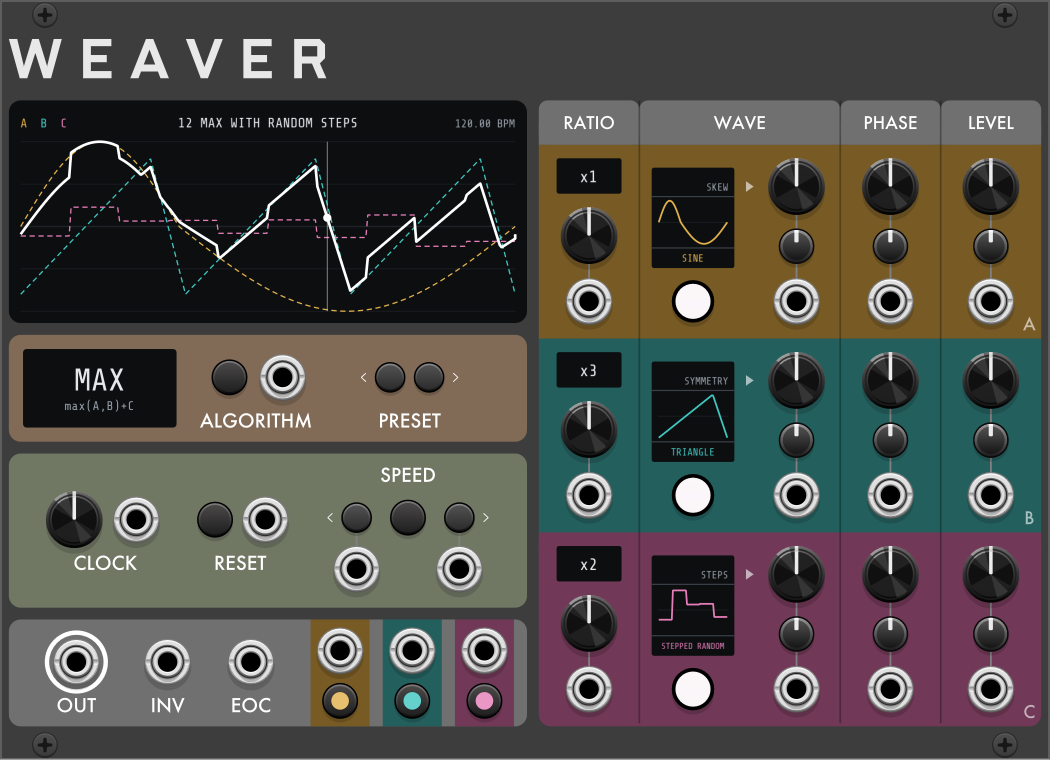
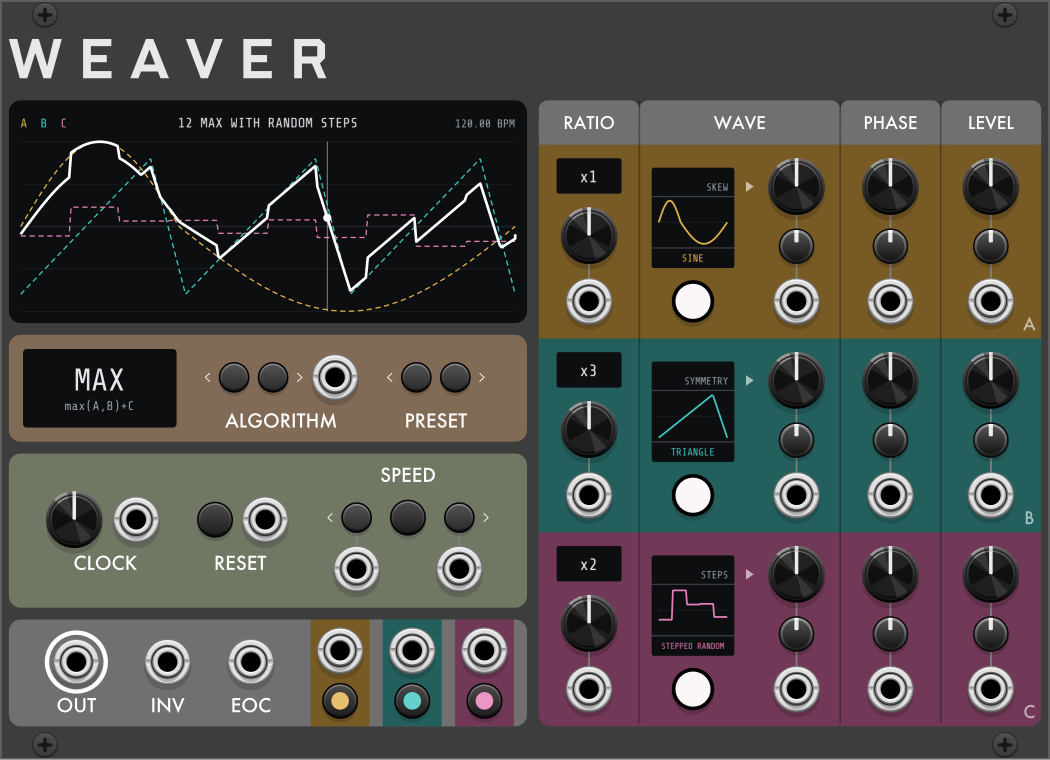
Skylark: SHAPE buttons replace the knob; Weaver: ALGORITHM previous/next buttons

Changed region(s): [[0.1829, 0.4539, 0.4571, 0.575], [0.3657, 0.5447, 0.4571, 0.575]]

diff --git a/src/Weaver.cpp b/src/Weaver.cpp
@@ -166,7 +166,8 @@ struct Weaver : Module {
 		C_PARAM_CV_PARAM,
 		C_PHASE_CV_PARAM,
 		C_LEVEL_CV_PARAM,
-		ALGORITHM_PARAM,
+		// Next algorithm (the old single ALGORITHM button's slot)
+		ALGORITHM_NEXT_PARAM,
 		// The old ENVELOPE knob: no control, its slot kept so old patches load
 		UNUSED_ENVELOPE_PARAM,
 		PRESET_PREV_PARAM,
@@ -179,6 +180,7 @@ struct Weaver : Module {
 		SPEED_DOWN_PARAM,
 		SPEED_UP_PARAM,
 		SPEED_RESET_PARAM,
+		ALGORITHM_PREV_PARAM,
 		PARAMS_LEN
 	};
 	enum InputId {
@@ -256,7 +258,7 @@ struct Weaver : Module {
 	shapes::CombineEngine engine;
 	shapes::Slew slew[4];  // OUT, then A, B, C
 	shapes::Trigger eoc;
-	dsp::BooleanTrigger waveTriggers[3], algorithmTrigger, speedDownTrigger, speedUpTrigger, speedResetTrigger;
+	dsp::BooleanTrigger waveTriggers[3], algorithmPrevTrigger, algorithmNextTrigger, speedDownTrigger, speedUpTrigger, speedResetTrigger;
 	dsp::SchmittTrigger speedDownCv, speedUpCv;
 #ifdef METAMODULE
 	// MetaModule has no widget events, so the PRESET buttons are read here
@@ -545,7 +547,9 @@ struct Weaver : Module {
 			if (waveTriggers[i].process(params[param(i, A_WAVE_PARAM)].getValue() > 0.5f))
 				selectWave(i, (waves[i] + 1) % shapes::kNumWaves);
 #endif
-		if (algorithmTrigger.process(params[ALGORITHM_PARAM].getValue() > 0.5f))
+		if (algorithmPrevTrigger.process(params[ALGORITHM_PREV_PARAM].getValue() > 0.5f))
+			algorithm = (algorithm + shapes::kNumAlgorithms - 1) % shapes::kNumAlgorithms;
+		if (algorithmNextTrigger.process(params[ALGORITHM_NEXT_PARAM].getValue() > 0.5f))
 			algorithm = (algorithm + 1) % shapes::kNumAlgorithms;
 		// SPEED's jacks do what their buttons do
 		bool down = speedDownTrigger.process(params[SPEED_DOWN_PARAM].getValue() > 0.5f);
@@ -770,7 +774,8 @@ Weaver::Weaver() {
 		configOutput(A_OUTPUT + i, "Operator " + op);
 		configLight(A_WAVE_LIGHT + 3 * i, op + " wave");
 	}
-	configButton<AlgorithmQuantity>(ALGORITHM_PARAM, "Algorithm");
+	configButton<AlgorithmQuantity>(ALGORITHM_PREV_PARAM, "Previous algorithm");
+	configButton<AlgorithmQuantity>(ALGORITHM_NEXT_PARAM, "Next algorithm");
 	configParam(UNUSED_ENVELOPE_PARAM, 0.f, 1.f, 0.f, "Unused")->randomizeEnabled = false;
 	configButton(PRESET_PREV_PARAM, "Previous preset");
 	configButton(PRESET_NEXT_PARAM, "Next preset");
@@ -1080,8 +1085,9 @@ struct PresetButton : TL1105 {
 	}
 };
 
-// Clicking WAVE or ALGORITHM steps to the next choice; right-clicking lists
-// them all below the usual parameter menu.
+// Clicking WAVE steps to the next wave, and ALGORITHM's buttons to the
+// previous or next algorithm; right-clicking lists them all below the usual
+// parameter menu.
 template <typename TBase>
 struct ChoiceMenuButton : TBase {
 	virtual void appendChoices(Menu* menu, Weaver* module) = 0;
@@ -1112,7 +1118,7 @@ struct WaveButton : ChoiceMenuButton<VCVLightBezel<RedGreenBlueLight>> {
 	}
 };
 
-struct AlgorithmButton : ChoiceMenuButton<VCVButton> {
+struct AlgorithmButton : ChoiceMenuButton<TL1105> {
 	void appendChoices(Menu* menu, Weaver* module) override {
 		menu->addChild(createMenuLabel("Algorithm"));
 		for (int a = 0; a < shapes::kNumAlgorithms; a++) {
@@ -1217,17 +1223,18 @@ struct WeaverWidget : ModuleWidget {
 		addInput(createInputCentered<PJ301MPort>(mm2px(Vec(167.79, 116.69)), module, Weaver::C_LEVEL_INPUT));
 
 		// Algorithm and presets
-		addParam(createParamCentered<AlgorithmButton>(mm2px(Vec(38.86, 63.9)), module, Weaver::ALGORITHM_PARAM));
-		addInput(createInputCentered<PJ301MPort>(mm2px(Vec(47.86, 63.9)), module, Weaver::ALGORITHM_INPUT));
+		addParam(createParamCentered<AlgorithmButton>(mm2px(Vec(39.64, 63.9)), module, Weaver::ALGORITHM_PREV_PARAM));
+		addParam(createParamCentered<AlgorithmButton>(mm2px(Vec(46.24, 63.9)), module, Weaver::ALGORITHM_NEXT_PARAM));
+		addInput(createInputCentered<PJ301MPort>(mm2px(Vec(56.74, 63.9)), module, Weaver::ALGORITHM_INPUT));
 #ifdef METAMODULE
 		// Plain buttons: process() steps the presets, as PresetButton never gets events here
-		addParam(createParamCentered<TL1105>(mm2px(Vec(72.66, 63.9)), module, Weaver::PRESET_NEXT_PARAM));
-		addParam(createParamCentered<TL1105>(mm2px(Vec(66.06, 63.9)), module, Weaver::PRESET_PREV_PARAM));
+		addParam(createParamCentered<TL1105>(mm2px(Vec(77.1, 63.9)), module, Weaver::PRESET_NEXT_PARAM));
+		addParam(createParamCentered<TL1105>(mm2px(Vec(70.5, 63.9)), module, Weaver::PRESET_PREV_PARAM));
 #else
-		PresetButton* next = createParamCentered<PresetButton>(mm2px(Vec(72.66, 63.9)), module, Weaver::PRESET_NEXT_PARAM);
+		PresetButton* next = createParamCentered<PresetButton>(mm2px(Vec(77.1, 63.9)), module, Weaver::PRESET_NEXT_PARAM);
 		next->delta = 1;
 		addParam(next);
-		PresetButton* prev = createParamCentered<PresetButton>(mm2px(Vec(66.06, 63.9)), module, Weaver::PRESET_PREV_PARAM);
+		PresetButton* prev = createParamCentered<PresetButton>(mm2px(Vec(70.5, 63.9)), module, Weaver::PRESET_PREV_PARAM);
 		prev->delta = -1;
 		addParam(prev);
 #endif
@@ -1238,7 +1245,7 @@ struct WeaverWidget : ModuleWidget {
 		addParam(createParamCentered<VCVButton>(mm2px(Vec(36.415, 88.0)), module, Weaver::RESET_PARAM));
 		addInput(createInputCentered<PJ301MPort>(mm2px(Vec(44.915, 88.0)), module, Weaver::RESET_INPUT));
 
-		// SPEED: plain buttons, read in process() like ALGORITHM, down and up over their trigger jacks
+		// SPEED: plain buttons, read in process() like ALGORITHM's, down and up over their trigger jacks
 		addParam(createParamCentered<TL1105>(mm2px(Vec(60.385, 87.65)), module, Weaver::SPEED_DOWN_PARAM));
 		addParam(createParamCentered<VCVButton>(mm2px(Vec(69.085, 87.65)), module, Weaver::SPEED_RESET_PARAM));
 		addParam(createParamCentered<TL1105>(mm2px(Vec(77.785, 87.65)), module, Weaver::SPEED_UP_PARAM));

diff --git a/src/Skylark.cpp b/src/Skylark.cpp
@@ -76,6 +76,12 @@ struct Skylark : Module {
 		SPEED_RESET_PARAM,
 		PARAMS_LEN
 	};
+	// The shape buttons' tooltips name the shape
+	struct ShapeQuantity : ParamQuantity {
+		std::string getDisplayValueString() override {
+			return module ? shapes::recipeName((int) std::round(module->params[SHAPE_PARAM].getValue())) : "";
+		}
+	};
 	enum InputId {
 		VARIATION_INPUT,
 		SHAPE_INPUT,
@@ -165,9 +171,11 @@ struct Skylark : Module {
 		std::vector<std::string> names;
 		for (int i = 0; i < shapes::kNumRecipes; i++)
 			names.push_back(shapes::recipeName(i));
+		// No control: the buttons step it. Saved in the module's data too, as
+		// the MetaModule doesn't save a param without a control.
 		configSwitch(SHAPE_PARAM, 0.f, shapes::kNumRecipes - 1, 0.f, "Shape", names);
-		configButton(SHAPE_PREV_PARAM, "Previous shape");
-		configButton(SHAPE_NEXT_PARAM, "Next shape");
+		configButton<ShapeQuantity>(SHAPE_PREV_PARAM, "Previous shape");
+		configButton<ShapeQuantity>(SHAPE_NEXT_PARAM, "Next shape");
 		configParam(TIMING_PARAM, -1.f, 1.f, 0.f, "Timing");
 		configParam(LIFT_PARAM, -1.f, 1.f, 0.f, "Lift");
 		configParam(SYMMETRY_PARAM, 0.f, 1.f, 0.f, "Symmetry", "%", 0.f, 100.f);
@@ -365,6 +373,7 @@ struct Skylark : Module {
 		json_object_set_new(rootJ, "cvPerCycle", json_boolean(cvPerCycle));
 		json_object_set_new(rootJ, "shapeAtCycleEnd", json_boolean(shapeAtCycleEnd));
 		json_object_set_new(rootJ, "speed", json_integer(speed.targetOctaves()));
+		json_object_set_new(rootJ, "shape", json_integer((int) std::round(params[SHAPE_PARAM].getValue())));
 		return rootJ;
 	}
 
@@ -379,6 +388,10 @@ struct Skylark : Module {
 		shapeAtCycleEnd = j && json_is_true(j);
 		j = json_object_get(rootJ, "speed");
 		speed.jumpTo(j && json_is_integer(j) ? (int) json_integer_value(j) : 0);
+		// Missing (a patch from when SHAPE was a knob): the saved param stands
+		j = json_object_get(rootJ, "shape");
+		if (j && json_is_integer(j) && json_integer_value(j) >= 0 && json_integer_value(j) < shapes::kNumRecipes)
+			params[SHAPE_PARAM].setValue((float) json_integer_value(j));
 	}
 };
 
@@ -520,12 +533,11 @@ struct SkylarkWidget : ModuleWidget {
 		addChild(display);
 
 		addParam(createParamCentered<RoundBlackKnob>(mm2px(Vec(103.71, 32.791)), module, Skylark::VARIATION_PARAM));
-		addParam(createParamCentered<RoundBlackSnapKnob>(mm2px(Vec(88.56, 32.791)), module, Skylark::SHAPE_PARAM));
 		addInput(createInputCentered<PJ301MPort>(mm2px(Vec(103.71, 44.753)), module, Skylark::VARIATION_INPUT));
 		addInput(createInputCentered<PJ301MPort>(mm2px(Vec(88.56, 44.753)), module, Skylark::SHAPE_INPUT));
 		addParam(createParamCentered<Trimpot>(mm2px(Vec(103.71, 53.844)), module, Skylark::VARIATION_CV_PARAM));
-		addParam(createParamCentered<TL1105>(mm2px(Vec(85.26, 53.844)), module, Skylark::SHAPE_PREV_PARAM));
-		addParam(createParamCentered<TL1105>(mm2px(Vec(91.86, 53.844)), module, Skylark::SHAPE_NEXT_PARAM));
+		addParam(createParamCentered<TL1105>(mm2px(Vec(85.26, 32.791)), module, Skylark::SHAPE_PREV_PARAM));
+		addParam(createParamCentered<TL1105>(mm2px(Vec(91.86, 32.791)), module, Skylark::SHAPE_NEXT_PARAM));
 
 		addParam(createParamCentered<RoundBlackKnob>(mm2px(Vec(12.884, 76.868)), module, Skylark::TIMING_PARAM));
 		addParam(createParamCentered<RoundBlackKnob>(mm2px(Vec(35.652, 76.868)), module, Skylark::LIFT_PARAM));

diff --git a/Weaver.md b/Weaver.md
@@ -43,7 +43,7 @@ With WAVE set to **Input**, the operator plays the signal at its PARAM jack (±5
 
 ### Algorithms
 
-The **ALGORITHM** button steps through the algorithms; in VCV Rack, right-click to choose from a list. ALGORITHM CV adds to the selection, 10 V spanning all eleven.
+The **ALGORITHM** **‹ ›** buttons step through the algorithms; in VCV Rack, right-click either to choose from a list. ALGORITHM CV offsets the selection, 10 V spanning all eleven.
 
 | Algorithm | Formula | Function |
 |---|---|---|

diff --git a/Skylark.md b/Skylark.md
@@ -12,7 +12,7 @@
 
 ### SHAPE and VARIATION
 
-- **SHAPE**: selects the shape (default Bounce); **‹ ›** step through them. SHAPE CV adds to the knob, 10 V spanning all 18 shapes, wrapping.
+- **SHAPE**: **‹ ›** step through the shapes (default Bounce). SHAPE CV offsets the selection, 10 V spanning all 18 shapes, wrapping.
 - **VARIATION**: 0–100%, default 50%.
 
 ### Transforms
